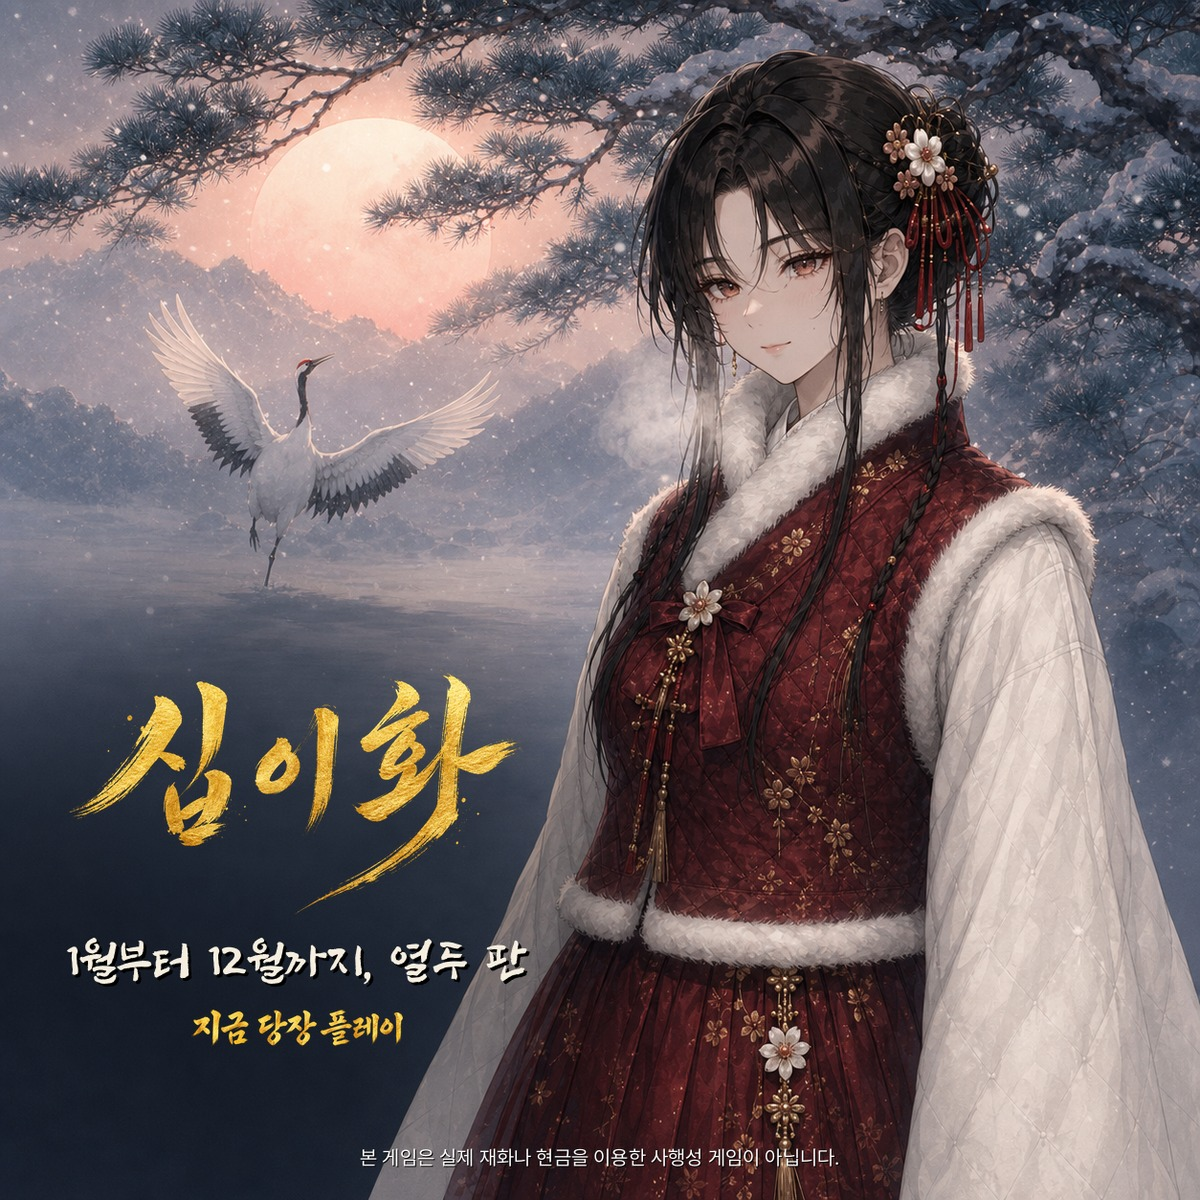
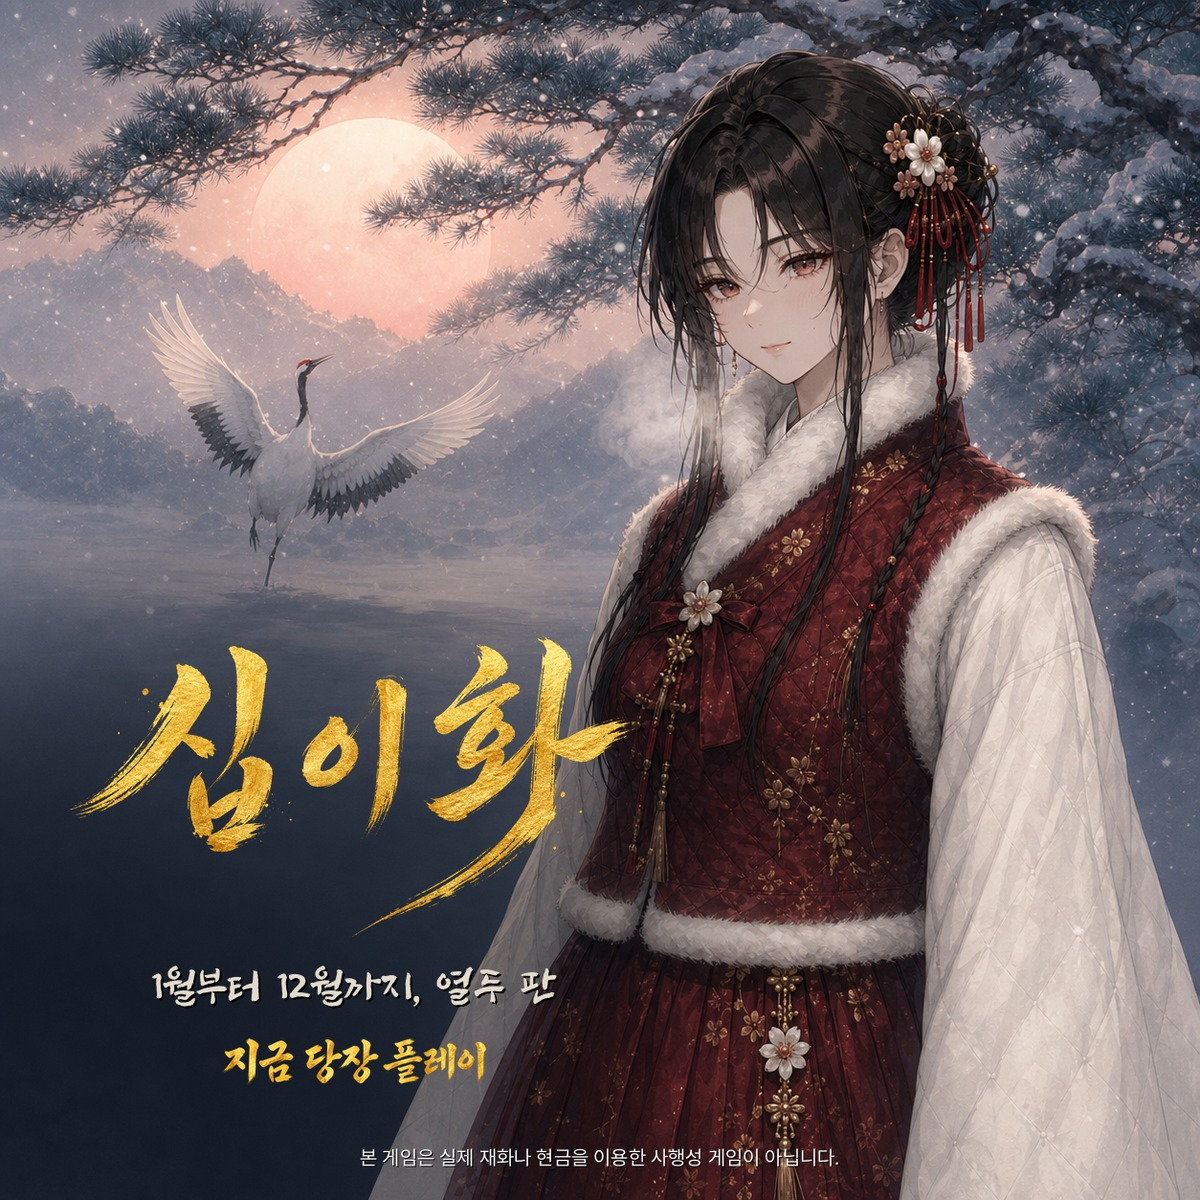
로고를 키우고 부제 톤을 낮춰 타이포 위계를 잡는다
로고와 CTA 가 모두 금박인데 부제까지 순백 풀강도(alpha 255)에 3px 그림자로
찍히고 있어 세 층이 같은 무게로 경쟁했다. 부제는 정보 전달용이지 시선을
끄는 층이 아니다.

- 부제 색을 순백 → 따뜻한 아이보리로 낮추고 투명도 205/255 적용
- 그림자를 3px·alpha 175 → 2px·alpha 120 으로 약화
- 부제 크기 축소 (1:1·4:5 50→44, 1.91:1 46→41)
- 로고 폭 확대 (1:1 480→600, 1.91:1 500→620, 4:5 450→560)
  블록이 길어진 만큼 시작 위치를 위로 올려 하단 고지와의 간격을 유지

Changed region(s): [[0.0617, 0.4625, 0.5242, 0.925], [0.4933, 0.74, 0.6783, 0.8017]]

diff --git a/design/15_google_campaign/src/lockup.py b/design/15_google_campaign/src/lockup.py
@@ -84,8 +84,10 @@ _logo_path = LOGO_OVERRIDE or os.path.join(G, "logo", "logo_ink.png" if INK else
 logo = fit(piece(_logo_path), LOGO_W)
 cta  = fit(piece(os.path.join(G, "logo", "cta_verm.png") if INK else os.path.join(G, "type", "tcta", "type.png")),
            round(LOGO_W * CTA_W_RATIO))
-SUB_COL   = (32, 30, 28, 255) if INK else (245, 238, 224, 255)
-SHADOW    = None if INK else (0, 0, 0, 175)
+# 부제는 정보 전달용이지 시선을 끄는 층이 아니다. 로고와 CTA 가 금박이므로
+# 부제까지 순백 풀강도로 찍으면 위계가 무너진다 — 채도를 낮추고 투명도를 준다.
+SUB_COL   = (32, 30, 28, 235) if INK else (226, 218, 204, 205)
+SHADOW    = None if INK else (0, 0, 0, 120)
 NOTICE_COL = (44, 40, 36, 175) if INK else (255, 255, 255, 115)
 gfont = ImageFont.truetype(GAME_FONT, SUB_SIZE)
 _m = ImageDraw.Draw(Image.new("RGB", (1, 1)))
@@ -109,7 +111,7 @@ y = LY
 art.alpha_composite(logo, (LX, y));                       y += logo.height + gap1
 dsub = ImageDraw.Draw(art)
 sx = cx - sub_w // 2 - sbb[0]
-layers = ([(0, 0, SUB_COL)] if SHADOW is None else [(3, 3, SHADOW), (0, 0, SUB_COL)])
+layers = ([(0, 0, SUB_COL)] if SHADOW is None else [(2, 2, SHADOW), (0, 0, SUB_COL)])
 for dx, dy, col in layers:
     dsub.text((sx + dx, y - sbb[1] + dy), SUB, font=gfont, fill=col)
 y += sub_h + gap2
